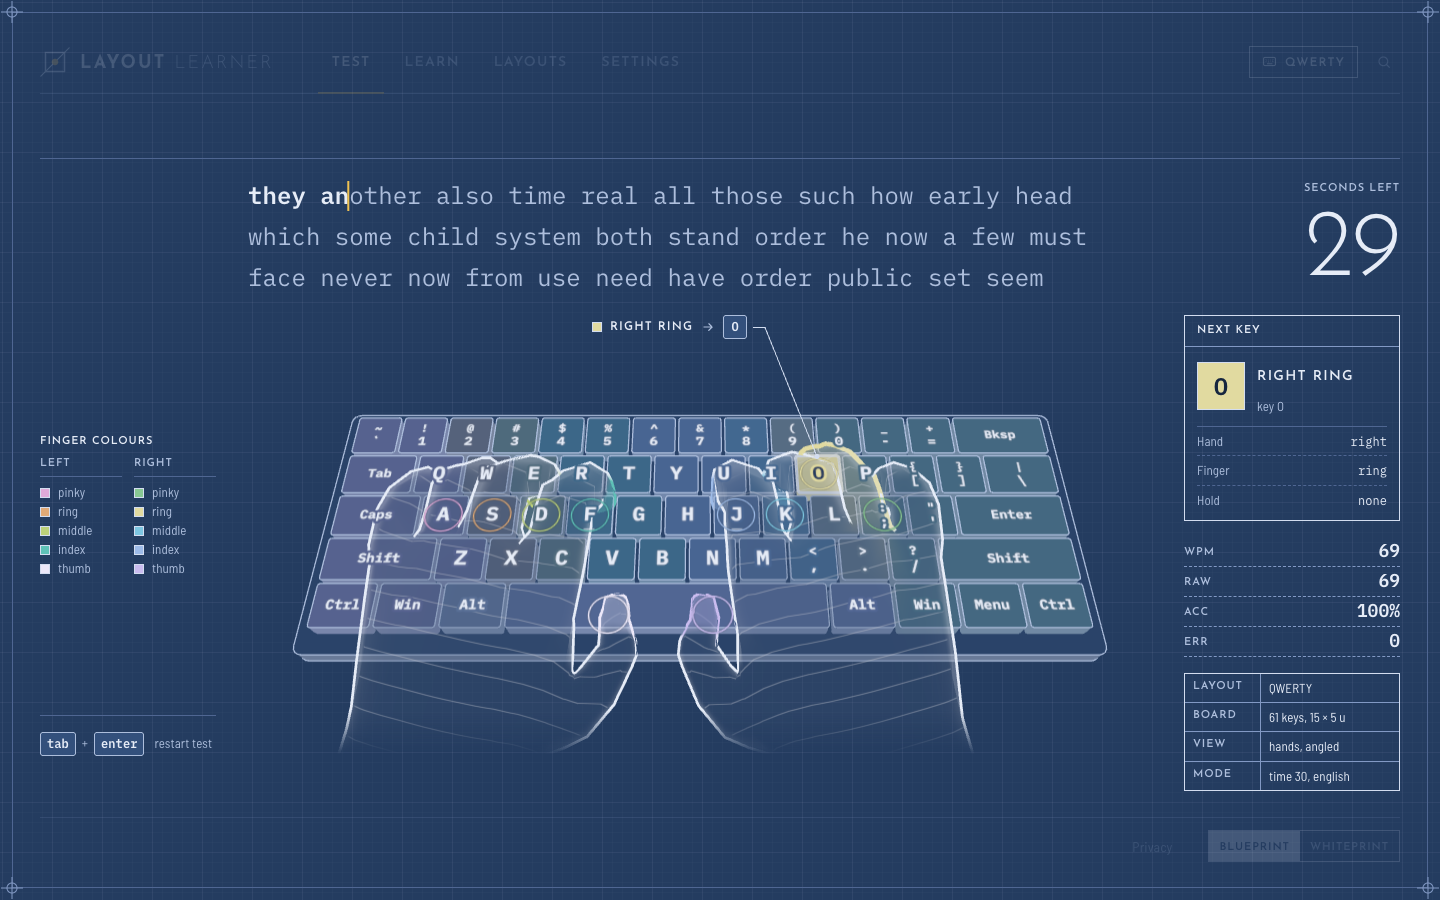
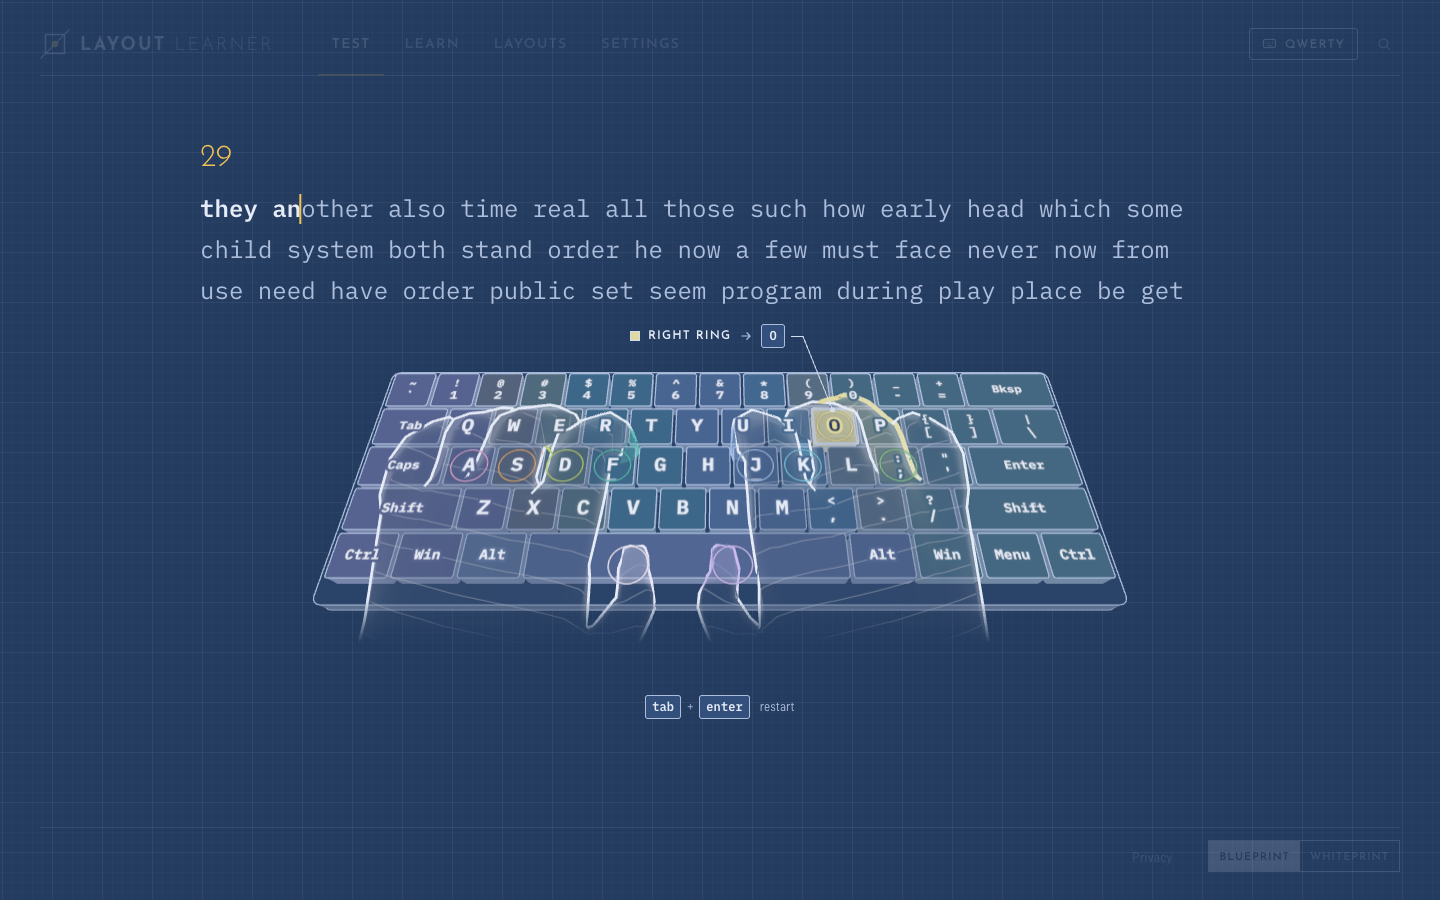
Minimal practice screens: docs, screenshots, tablet nav fix
- Record the single-column practice layout in DESIGN.md and the surface brief.
- Recapture README screenshots.
- Hide the wordmark text between md and lg so the nav no longer overflows
  at tablet widths; round the layout chip like other controls.
- Trim lesson drill padding so the page no longer scrolls by a few pixels.

diff --git a/components/shell/Nav.tsx b/components/shell/Nav.tsx
@@ -24,7 +24,7 @@ export function Nav() {
       <div className="flex flex-wrap items-center gap-x-6 border-b border-border pt-3 md:h-16 md:flex-nowrap md:gap-x-8 md:pt-0 lg:gap-x-11">
         <Link href="/" aria-label="LayoutLearner home" className="flex h-10 items-center gap-2.5" data-testid="nav-home">
           <Logo />
-          <Wordmark className="max-[380px]:hidden" />
+          <Wordmark className="max-[380px]:hidden md:max-lg:hidden" />
         </Link>
         <nav
           aria-label="Main"
@@ -56,7 +56,7 @@ export function Nav() {
             title="Current layout: change it"
             data-testid="layout-chip"
             data-layout={settings.layoutId}
-            className="ll-lettering mr-1 inline-flex h-8 max-w-44 items-center gap-2 border border-line px-3 text-text transition-colors duration-150 hover:bg-text hover:text-bg"
+            className="ll-lettering mr-1 inline-flex h-8 max-w-44 items-center gap-2 rounded-ui border border-line px-3 text-text transition-colors duration-150 hover:bg-text hover:text-bg"
           >
             <Icon name="keyboard" size={15} className="max-sm:hidden" />
             <span className="ll-trim truncate">{layoutLabel(settings.layoutId, settings.customLayouts)}</span>

diff --git a/DESIGN.md b/DESIGN.md
@@ -164,12 +164,13 @@ components:
 
 The app is an engineering drawing of hands on a keyboard. The drawing sheet is the page and the hands are the plate at its centre. It is drafted twice: **Blueprint** (dark, a deep, muted blueprint-blue sheet with soft chalk linework and a warm yellow action) and **Whiteprint** (light, pale drafting paper with blue ink and a brick-red action). Both themes are one system. The same tokens are re-valued under `[data-theme]`, and nothing else changes.
 
-Everything is ruled and lettered, calm enough to practise in for an hour: corners are eased, the grid is barely there, and colour is saved for the key that matters. Boxes are 1px outlines. Labels are tracked capitals. Readouts are monospace and sit beside the work like annotations. The page carries a faint drafting grid, registration marks, a title block, sheet and detail numbering, leader lines and dimension-style labels. Ten finger colours appear only as fills on keys, fingertips, chips and legends, which keeps them readable as a learning aid.
+Everything is ruled and lettered, calm enough to practise in for an hour: corners are eased, the grid is barely there, and colour is saved for the key that matters. Boxes are 1px outlines. Labels are tracked capitals. Practice screens are minimal: the text, the hands and one small counter, with nothing beside the work. The page carries a faint drafting grid, leader lines and dimension-style labels; there is no sheet frame. Ten finger colours appear only as fills on keys, fingertips, chips and legends, which keeps them readable as a learning aid.
 
 Where the build and the original direction contract differ on exact values, the build is recorded here (for example the Blueprint error is a pale pink, `#f4b6bd`, not salmon, and Whiteprint's red pencil is `#b5433a`).
 
 **Key Characteristics:**
 - Corners eased by 3px on controls, cards and keys; depth comes from line weight and fill, never shadow.
+- Minimal practice screens: text, hands, counter. If it does not help the next keystroke, it is not on the page.
 - Quiet by default: a deep low-chroma sheet, soft chalk lines, muted finger colours, a barely-there grid. Only the next key and the action colour may raise their voice.
 - One action colour per theme, used for the primary action, the active tab rule, the caret, the focus ring and the selection.
 - Josefin Sans tracked capitals for all lettering, Barlow Semi Condensed for UI text, IBM Plex Mono for typed text, key legends and numbers.
@@ -254,7 +255,7 @@ Exceptions: the fluid page title clamps, the user-set typing text size, `em`-rel
 
 ## Layout
 
-A single sheet column: `max-width: 1440px` with 16px, 32px and 40px side margins at base, `sm` and `lg`. Nav, main and footer share the column so their edges align. Pages that need a narrower measure constrain themselves inside it. The header strip is 64px tall at `md` and up, with the wordmark left, lettered nav tabs, then the layout chip, command palette and account on the right. The body is the drafting grid (10px fine, 50px heavy, offset 2px). The test page is a plate at the centre with annotation rails left and right and a title block at the bottom right. Spacing follows Tailwind's 4px steps; cards use 12, 20 or 24px padding. Phones get a notice plus browsing, and a mobile composition is not designed yet.
+A single sheet column: `max-width: 1440px` with 16px, 32px and 40px side margins at base, `sm` and `lg`. Nav, main and footer share the column so their edges align. Pages that need a narrower measure constrain themselves inside it. The header strip is 64px tall at `md` and up, with the wordmark left, lettered nav tabs, then the layout chip, command palette and account on the right. The body is the drafting grid (10px fine, 50px heavy, offset 2px). The test page and the lesson drill are one centred column (`max-width: 1040px`): settings line (fades while typing), a small counter in the action colour, the text, the hands plate, a restart control. Live speed and accuracy are not shown while typing; they appear on the results sheet and stay in the page for assistive tech only. Spacing follows Tailwind's 4px steps; cards use 12, 20 or 24px padding. Phones get a notice plus browsing, and a mobile composition is not designed yet.
 
 ## Elevation & Depth
 

diff --git a/.impeccable/surfaces/app-page-tsx.md b/.impeccable/surfaces/app-page-tsx.md
@@ -23,9 +23,9 @@ THESIS: The app is a living engineering drawing of hands on a keyboard. It refus
 
 OWN-WORLD: Drenched cyanotype. `blueprint` theme: Prussian-blue sheet (#243c60), lighter blue fills (#33507c), chalk-white 1px linework (#e6ecf7), pale blue secondary text (#B3CBF0), safety-yellow action (#f0c252), salmon error (#FF8A78). `whiteprint` theme: white drafting paper (#f4f6fa), blue ink (#1f3f77), red pencil action (#D6302A). Square corners, hairline borders, faint drafting grid, registration marks, title block, sheet/detail numbering, leader lines, dimension-style labels. No shadows, no glows, no gradients. Type: Josefin Sans tracked caps for sheet lettering and headings, Barlow Semi Condensed for UI, IBM Plex Mono for typing text and key legends. Ten finger colours appear only as fills on keys, fingertips, chips and legends.
 
-STORY: The learner sees their own board drawn as a plate, reads the next key from the filled finger and its leader label, types, and watches readouts update like annotations. They believe the tool knows exactly where each finger goes, and they start the next lesson or test.
+STORY: The learner sees their own board drawn as a plate, reads the next key from the filled finger and its leader label, types with nothing else on the page, and sees speed and accuracy on the results sheet. They believe the tool knows exactly where each finger goes, and they start the next lesson or test.
 
-FIRST VIEWPORT: Test page at 1440x900. Header strip: wordmark left, numbered nav (01 TEST … 04 SETTINGS), layout chip right, then the config row as underlined annotations. Three lines of 24px mono typing text upper centre-left; timer as large thin numerals upper right. Below, the 3D plate spans the centre at roughly half the viewport height: wireframe-outlined translucent hands over an outlined keyboard, target key and fingertip filled, leader line to "LEFT INDEX → T". Right rail: next-key detail box, WPM/ACC/ERR readouts, title block bottom right. Left rail: notes and command hints. Primary action is typing itself; restart hint (tab + enter) sits bottom left.
+FIRST VIEWPORT: Test page at 1440x900, one centred column up to 1040px wide. Header strip: wordmark left, nav tabs, layout chip right. Then the config row (fades while typing), a small counter in the action colour, three lines of 24px mono typing text, and the 3D plate filling the rest: outlined translucent hands over an outlined keyboard, target key and fingertip filled, leader line to "LEFT INDEX → T". A quiet restart control (tab + enter) sits under the plate. No side rails, no live readouts, no sheet frame.
 
 FORM: Technical drawing sheet with a central plate and marginal annotations. seed: none (pinned) — owner chose "Blueprint (Recommended)" from the round-2 mockups and "See-through always" for the hands.
 
